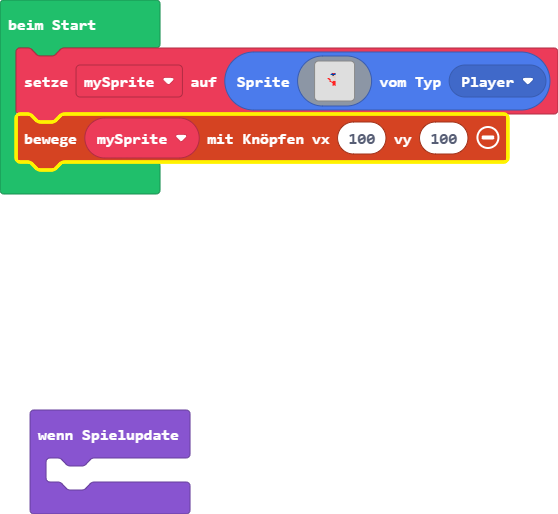
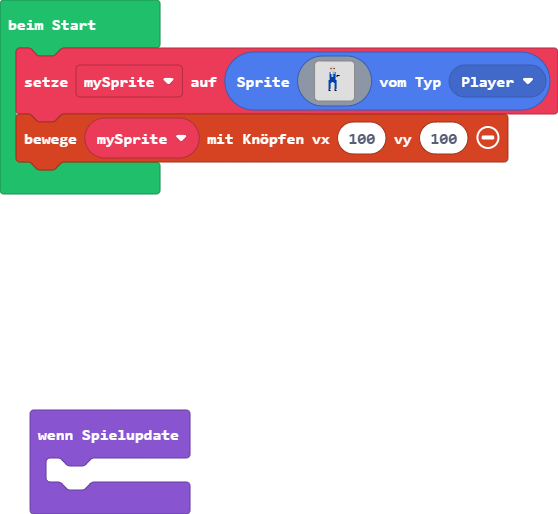
Aktualisiere main.blocks, main.ts

Changed region(s): [[0.0, 0.2179, 0.914, 0.3424], [0.5789, 0.1245, 0.6093, 0.1868]]

diff --git a/main.ts b/main.ts
@@ -1,30 +1,30 @@
 let mySprite = sprites.create(img`
     ................................
-    ................................
-    ................................
-    ................................
-    ................................
-    ................................
-    ................................
-    ................................
-    .............8228...............
-    ............88888...............
-    .............dfdd...............
-    .............dddd...............
-    ..............ddd...............
-    .........22.....d...............
-    ..........22....d...............
-    ...........2..ddd...............
-    ...........22.222...............
-    .............2222...............
-    ..............222...............
-    ..............222...............
-    ..............2.2...............
-    ................................
-    ................................
-    ................................
-    ................................
-    ................................
+    ............dddd................
+    ...........dddddd...............
+    ...........dfddfd...............
+    ...........dddddd...............
+    ...........dddddd...............
+    ............dddd................
+    ...........811618...............
+    ...........811618...............
+    ...........881688...............
+    ...........881688.fff...........
+    ..........d881688df.............
+    ...........888888...............
+    ...........888888...............
+    ...........888888...............
+    ..........88888888..............
+    ..........88888888..............
+    ..........888..888..............
+    ..........88....88..............
+    ..........88....88..............
+    ..........88....88..............
+    ..........88....88..............
+    ..........88....88..............
+    ..........88....88..............
+    ..........f.....f...............
+    ..........ff....ff..............
     ................................
     ................................
     ................................
